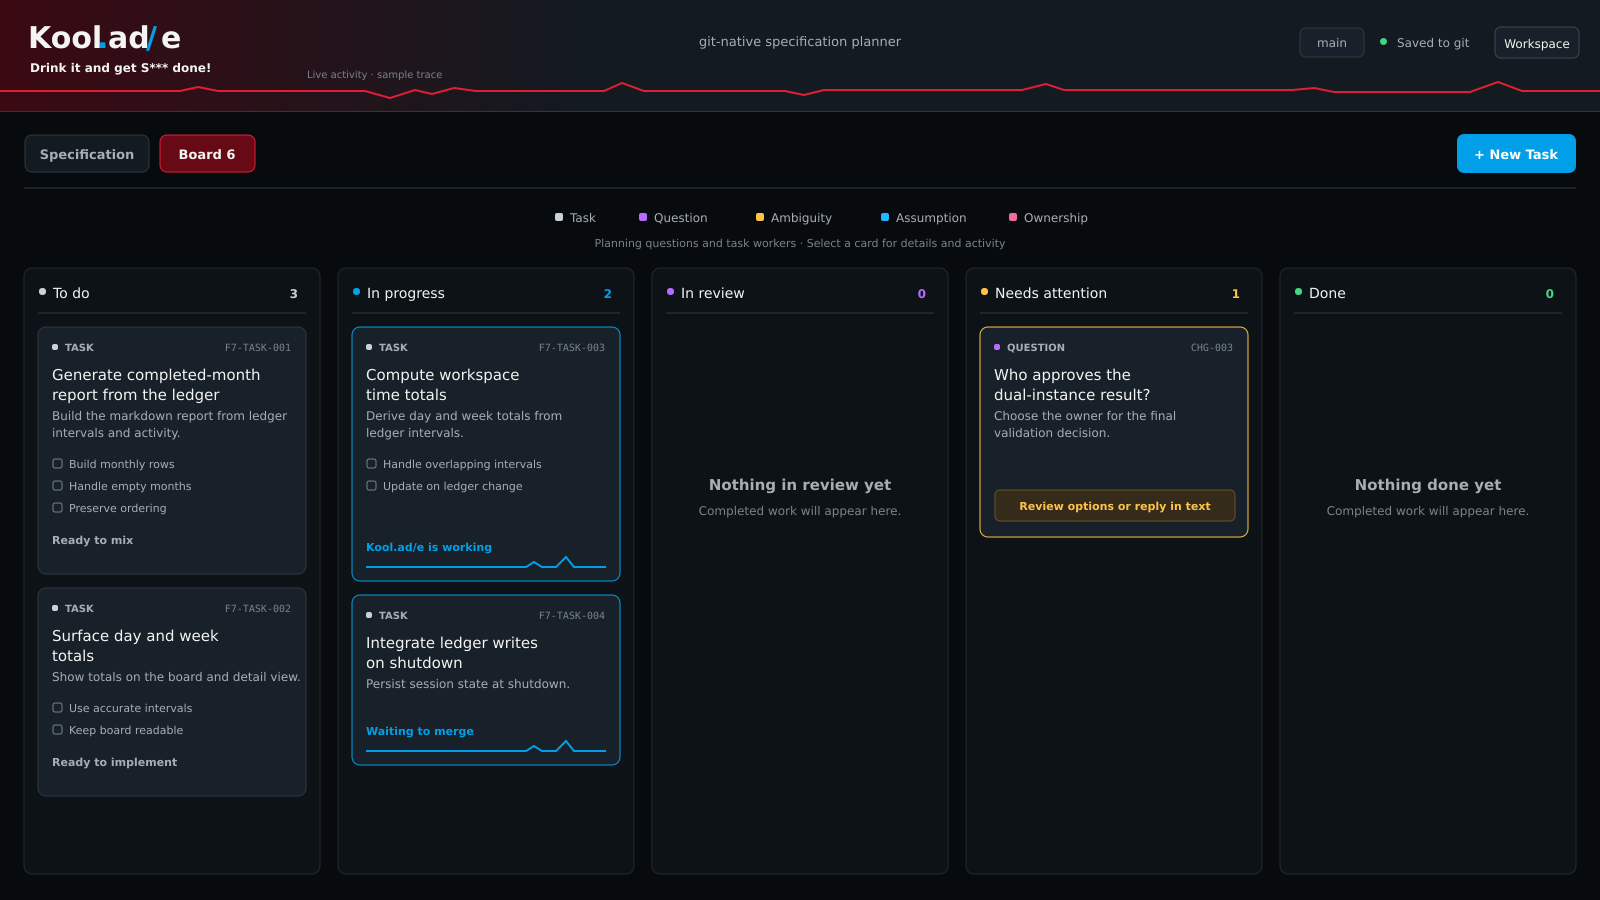
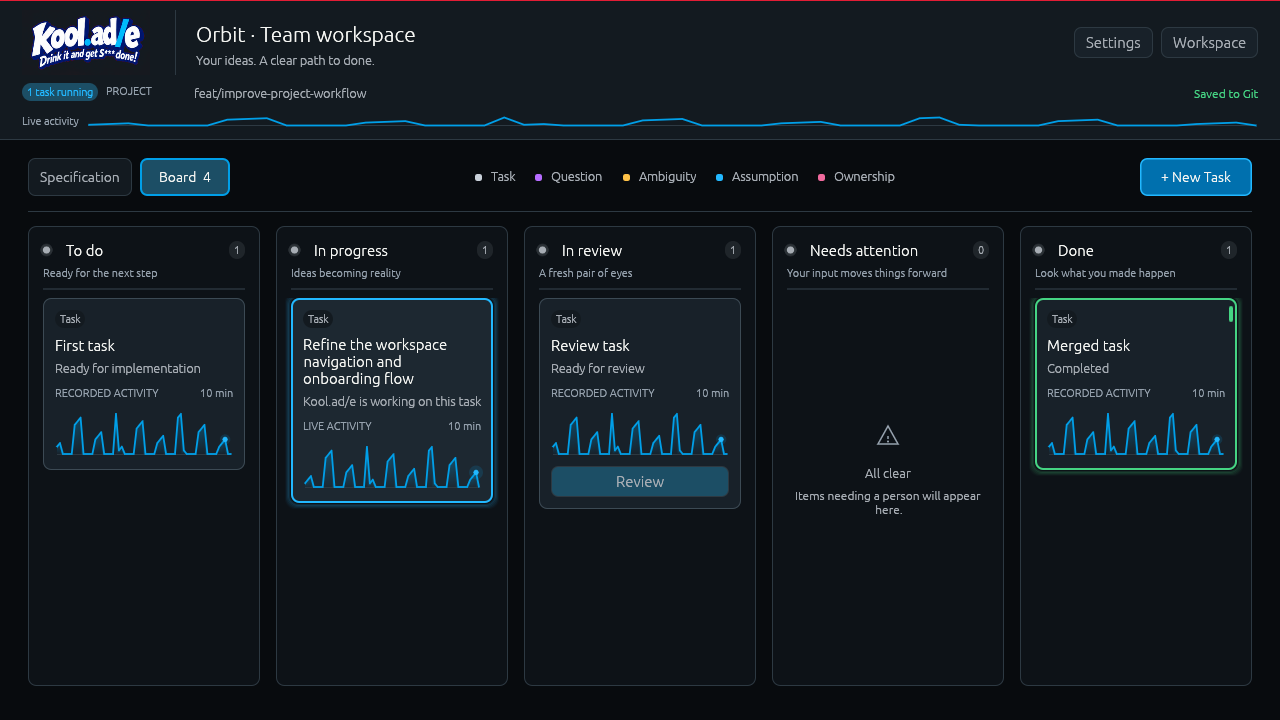
docs: refresh website and README screenshots

diff --git a/site/index.html b/site/index.html
@@ -66,7 +66,7 @@
               <span><b></b> kool.ad/e</span>
               <span class="stage-status">human still in charge</span>
             </div>
-            <img class="board-shot" src="/assets/board-preview.png" alt="Kool.ad/e board with planning and implementation work organized across Kanban columns." width="1600" height="900">
+            <img class="board-shot" src="/assets/board-preview.png" alt="Kool.ad/e workspace with a redesigned header and blue activity graphs on Kanban task cards." width="1280" height="720">
           </div>
           <div class="sticker sticker-one">NO CHAT<br>ARCHAEOLOGY</div>
           <div class="sticker sticker-two">GIT<br>REMEMBERS</div>
@@ -155,9 +155,25 @@
         <div class="board-display">
           <div class="board-tape tape-left"></div>
           <div class="board-tape tape-right"></div>
-          <img src="/assets/board-preview.png" alt="Kool.ad/e Kanban board showing work across To do, In progress, In review, Needs attention, and Done." width="1600" height="900">
+          <a href="/assets/board-preview.png" aria-label="View the board screenshot at full size"><img src="/assets/board-preview.png" alt="Kool.ad/e Kanban board with blue task activity graphs across To do, In progress, In review, Needs attention, and Done." width="1280" height="720" loading="lazy"></a>
           <div class="board-caption">Questions live where the work lives. Revolutionary stuff.</div>
         </div>
+      </section>
+
+      <section class="screenshots shell" id="screenshots" aria-labelledby="screenshots-heading">
+        <p class="section-label">A CLOSER LOOK</p>
+        <h2 id="screenshots-heading">The context. The controls. Right where you need them.</h2>
+        <div class="screenshot-grid">
+          <figure>
+            <a href="/assets/task-details-preview.png" aria-label="View task details at full size"><img src="/assets/task-details-preview.png" alt="Task details with a focused conversation, implementation actions, and a blue activity graph." width="1280" height="720" loading="lazy"></a>
+            <figcaption><strong>One task, all its context.</strong> Conversation, next steps, and activity share one view.</figcaption>
+          </figure>
+          <figure>
+            <a href="/assets/settings-preview.png" aria-label="View workspace settings at full size"><img src="/assets/settings-preview.png" alt="Workspace settings with grouped navigation for application preferences, coding tools, automation, and project settings." width="1280" height="720" loading="lazy"></a>
+            <figcaption><strong>Settings with a place for everything.</strong> Find tools, automation, and project preferences in clear groups.</figcaption>
+          </figure>
+        </div>
+        <p class="screenshot-note">Screenshots use an example workspace. Select an image to see it at full size.</p>
       </section>
 
       <section class="inside shell" id="inside">

diff --git a/site/styles.css b/site/styles.css
@@ -454,6 +454,17 @@ h1 {
 .tape-left { left: 9%; transform: rotate(-8deg); }
 .tape-right { right: 8%; transform: rotate(7deg); }
 
+.screenshots { padding-bottom: 110px; }
+.screenshots h2 { max-width: 780px; margin: 0 0 30px; font: 900 clamp(30px, 3.5vw, 46px)/1.08 var(--display); letter-spacing: -.04em; }
+.screenshot-grid { display: grid; grid-template-columns: repeat(2, minmax(0, 1fr)); gap: 28px; }
+.screenshot-grid figure { margin: 0; min-width: 0; }
+.screenshot-grid a { display: block; border: 1px solid var(--line); background: var(--black-2); }
+.screenshot-grid a:hover { border-color: var(--blue); }
+.screenshot-grid img { display: block; width: 100%; height: auto; }
+.screenshot-grid figcaption { padding-top: 16px; color: var(--muted); font-size: 14px; line-height: 1.6; }
+.screenshot-grid strong { display: block; color: var(--ink); }
+.screenshot-note { margin: 24px 0 0; color: var(--muted); font-size: 12px; line-height: 1.6; }
+
 .inside {
   display: grid;
   grid-template-columns: .83fr 1.17fr;
@@ -594,6 +605,8 @@ h1 {
   .breakout-art { min-height: 360px; order: 2; }
   .manager-copy { order: 1; }
   .board-section { padding-block: 92px; }
+  .screenshots { padding-bottom: 80px; }
+  .screenshot-grid { grid-template-columns: 1fr; gap: 32px; }
   .inside { grid-template-columns: 1fr; gap: 70px; padding-bottom: 100px; }
   .nutrition { margin-inline: auto; }
   .status-grid { grid-template-columns: 1fr; gap: 36px; padding-block: 62px; }

diff --git a/README.md b/README.md
@@ -27,7 +27,7 @@
 Turn vague ideas into living specifications, actionable tasks, verified code, and significantly fewer
 *"wait... why did the agent do that?"* moments.
 
-![Kool.ad/e board](site/assets/board-preview.png)
+![Kool.ad/e workspace with its redesigned header and blue task activity graphs](site/assets/board-preview.png)
 
 **Rust · Linux · Git-native · Agent-powered · Zero grams of sugar**
 
@@ -109,6 +109,18 @@ When Kool.ad/e needs something from you, the question appears directly on the it
 Answer it there.
 
 Continue drinking responsibly.
+
+### Take a closer look
+
+**Task details** bring the conversation, next action, and recorded activity together.
+
+![Task details with a focused conversation, implementation actions, and activity graph](site/assets/task-details-preview.png)
+
+**Workspace settings** group application preferences, coding tools, automation, and project controls.
+
+![Workspace settings with grouped navigation and coding-tool configuration](site/assets/settings-preview.png)
+
+Screenshots use an example workspace. Select an image to see it at full size.
 
 ---
 
